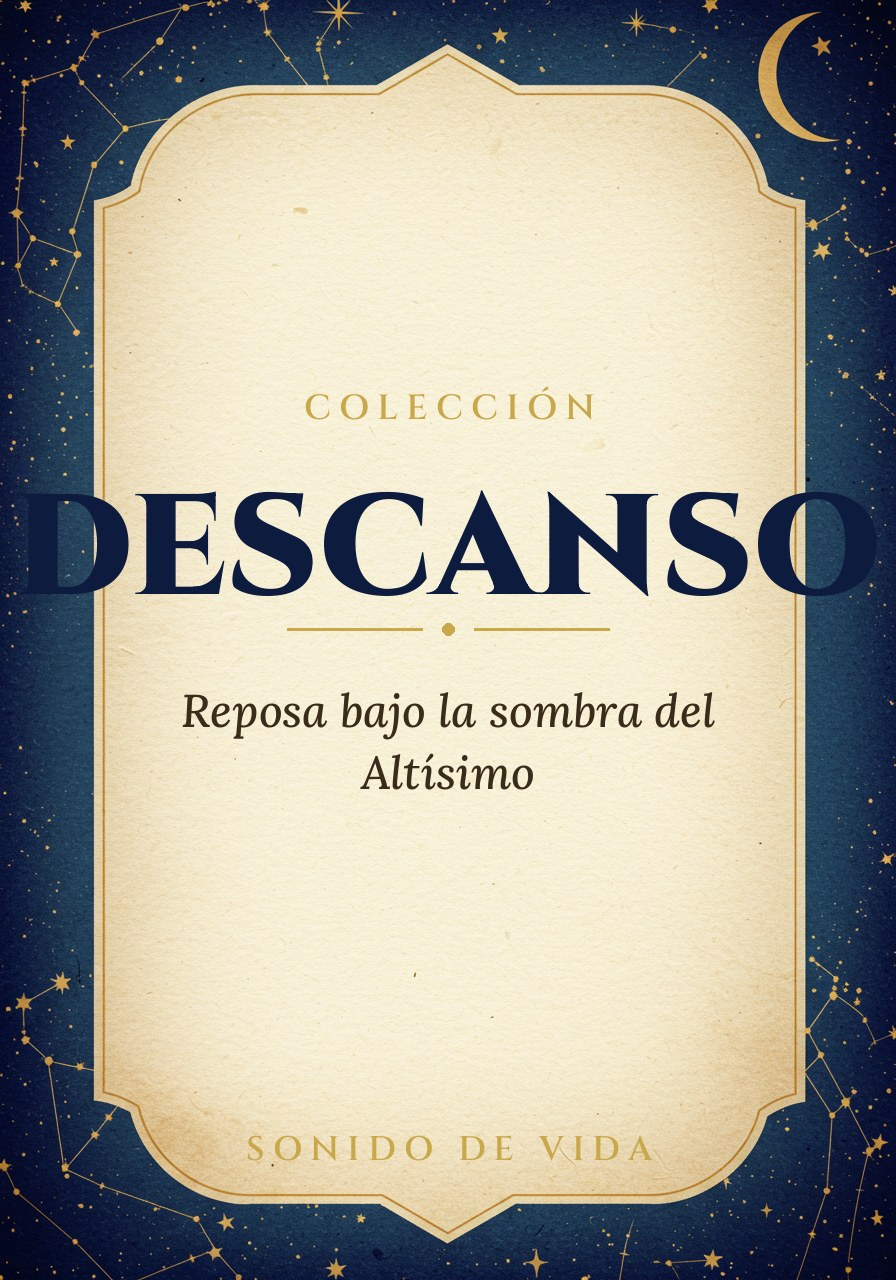
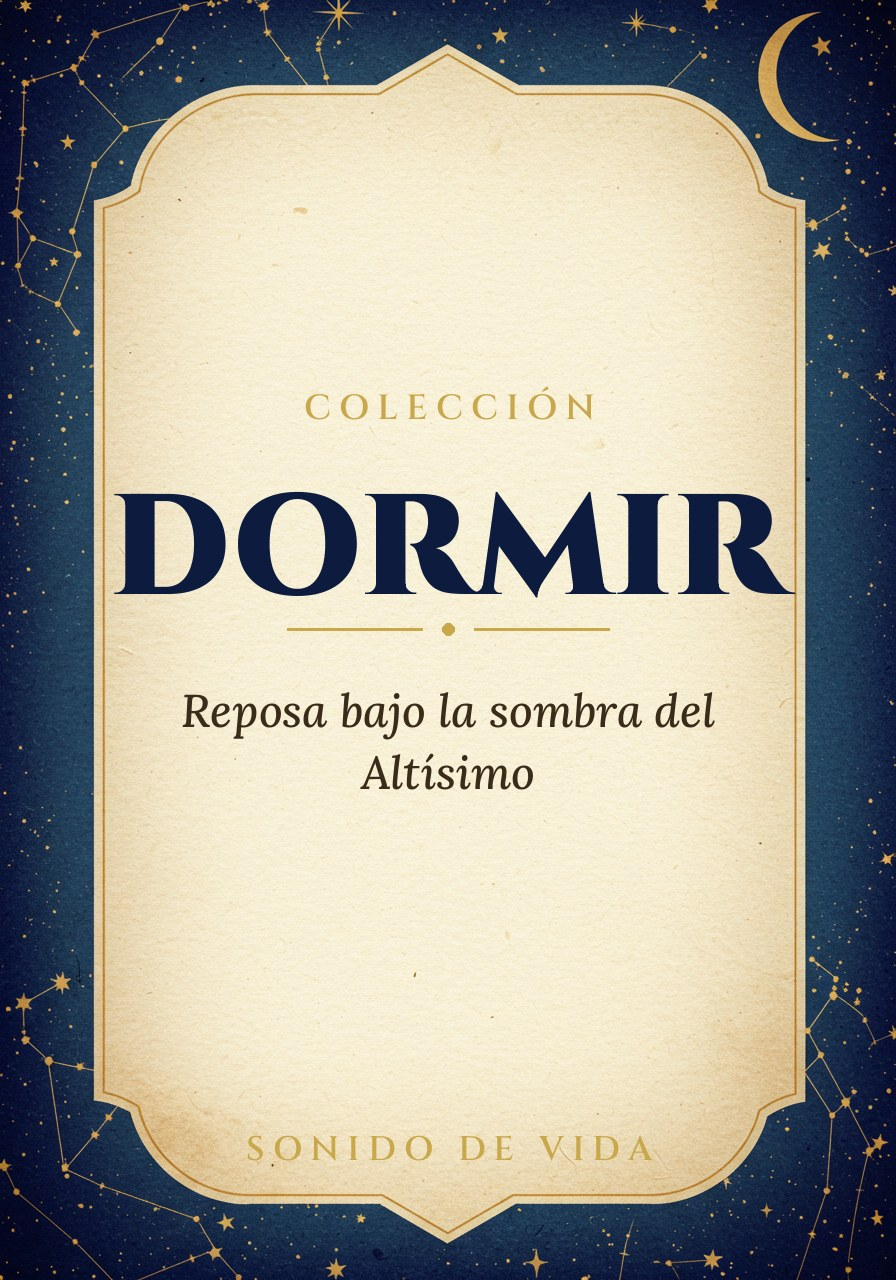
fix: portada Dormir — título corregido (DESCANSO desbordaba el área)

Changed region(s): [[0.0312, 0.375, 0.9688, 0.4688]]

diff --git a/index.html b/index.html
@@ -3439,7 +3439,7 @@
             },
             {
                 id: 'descanso',
-                titulo: 'Para Dormir',
+                titulo: 'Dormir',
                 subtitulo: 'Reposa bajo la sombra del Altísimo',
                 tracks: [
                     { libro: 'Salmos', cap: 91,  hint: 'Al abrigo del Altísimo' },